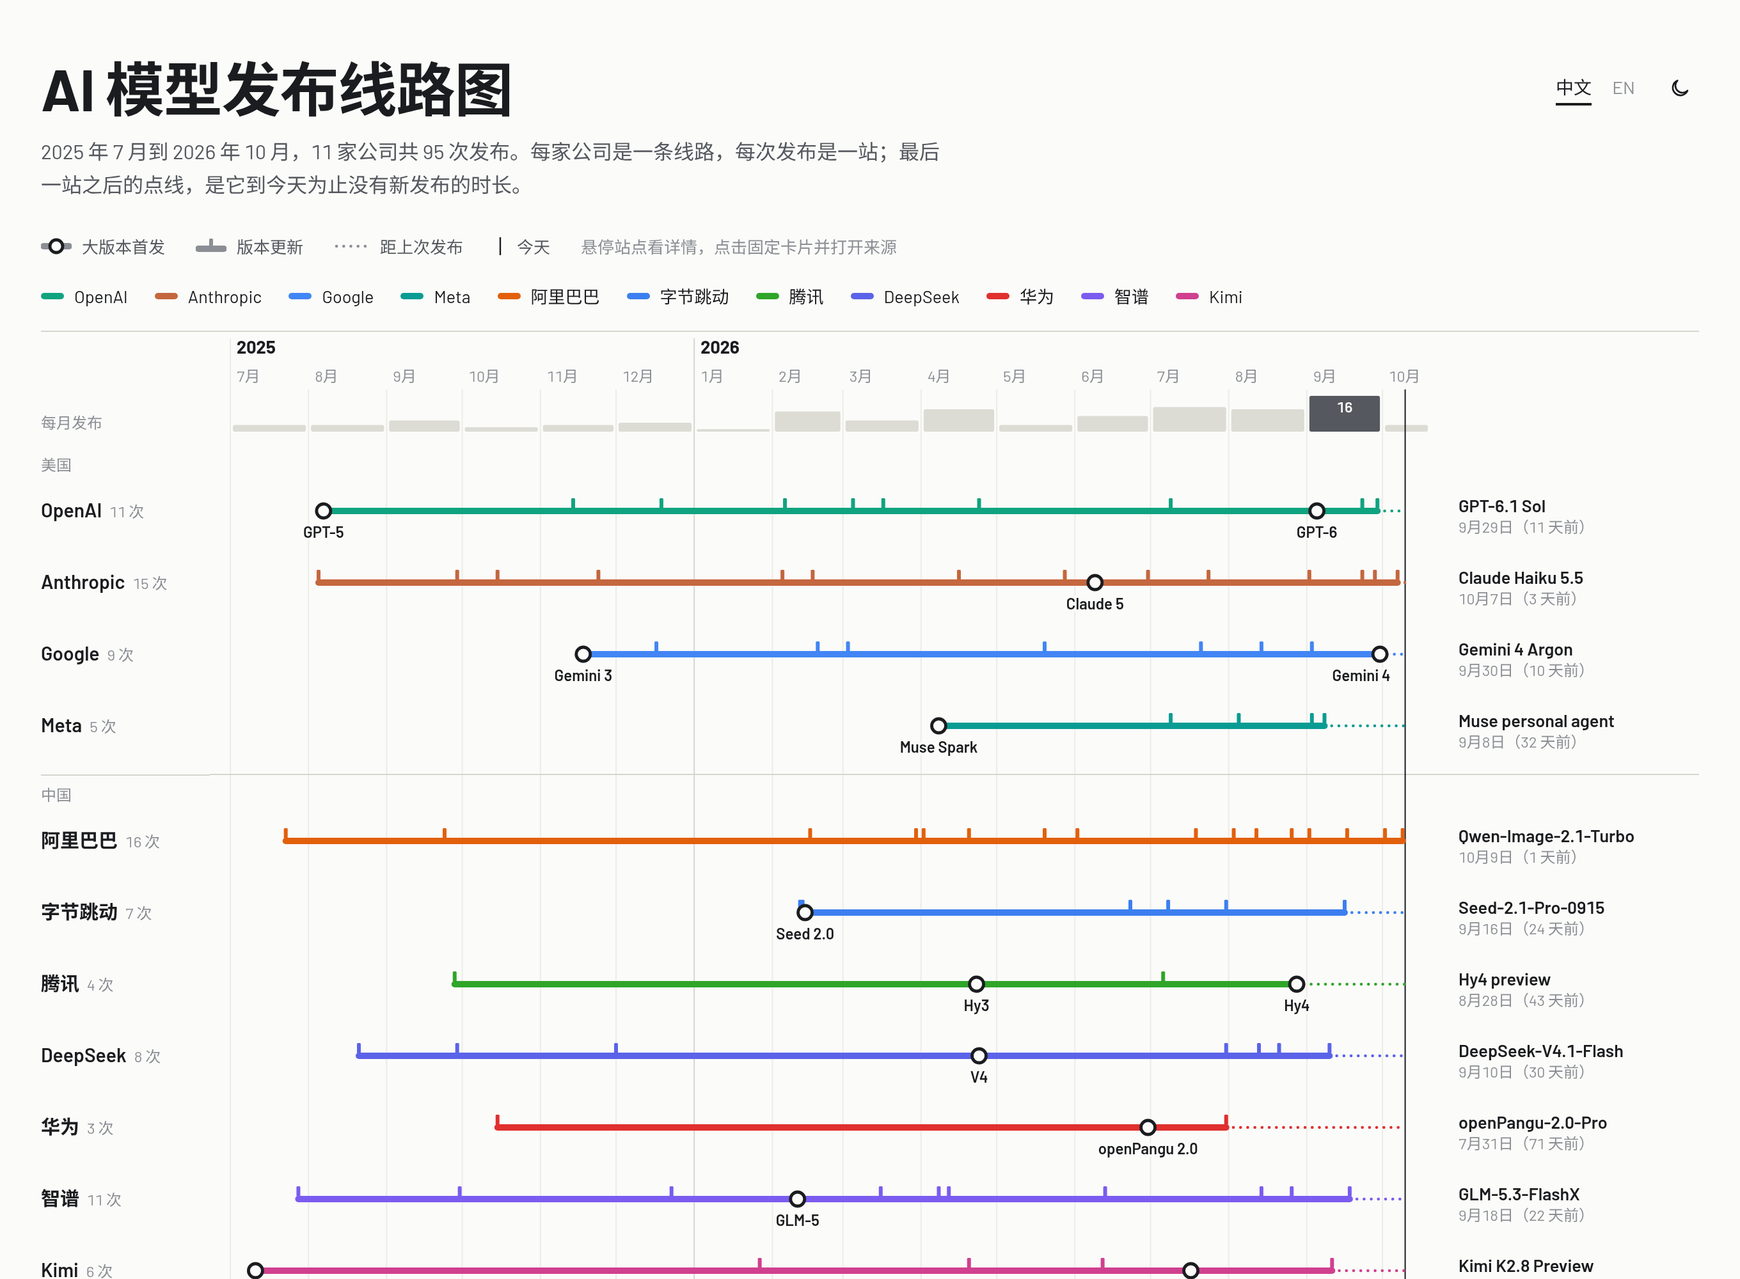
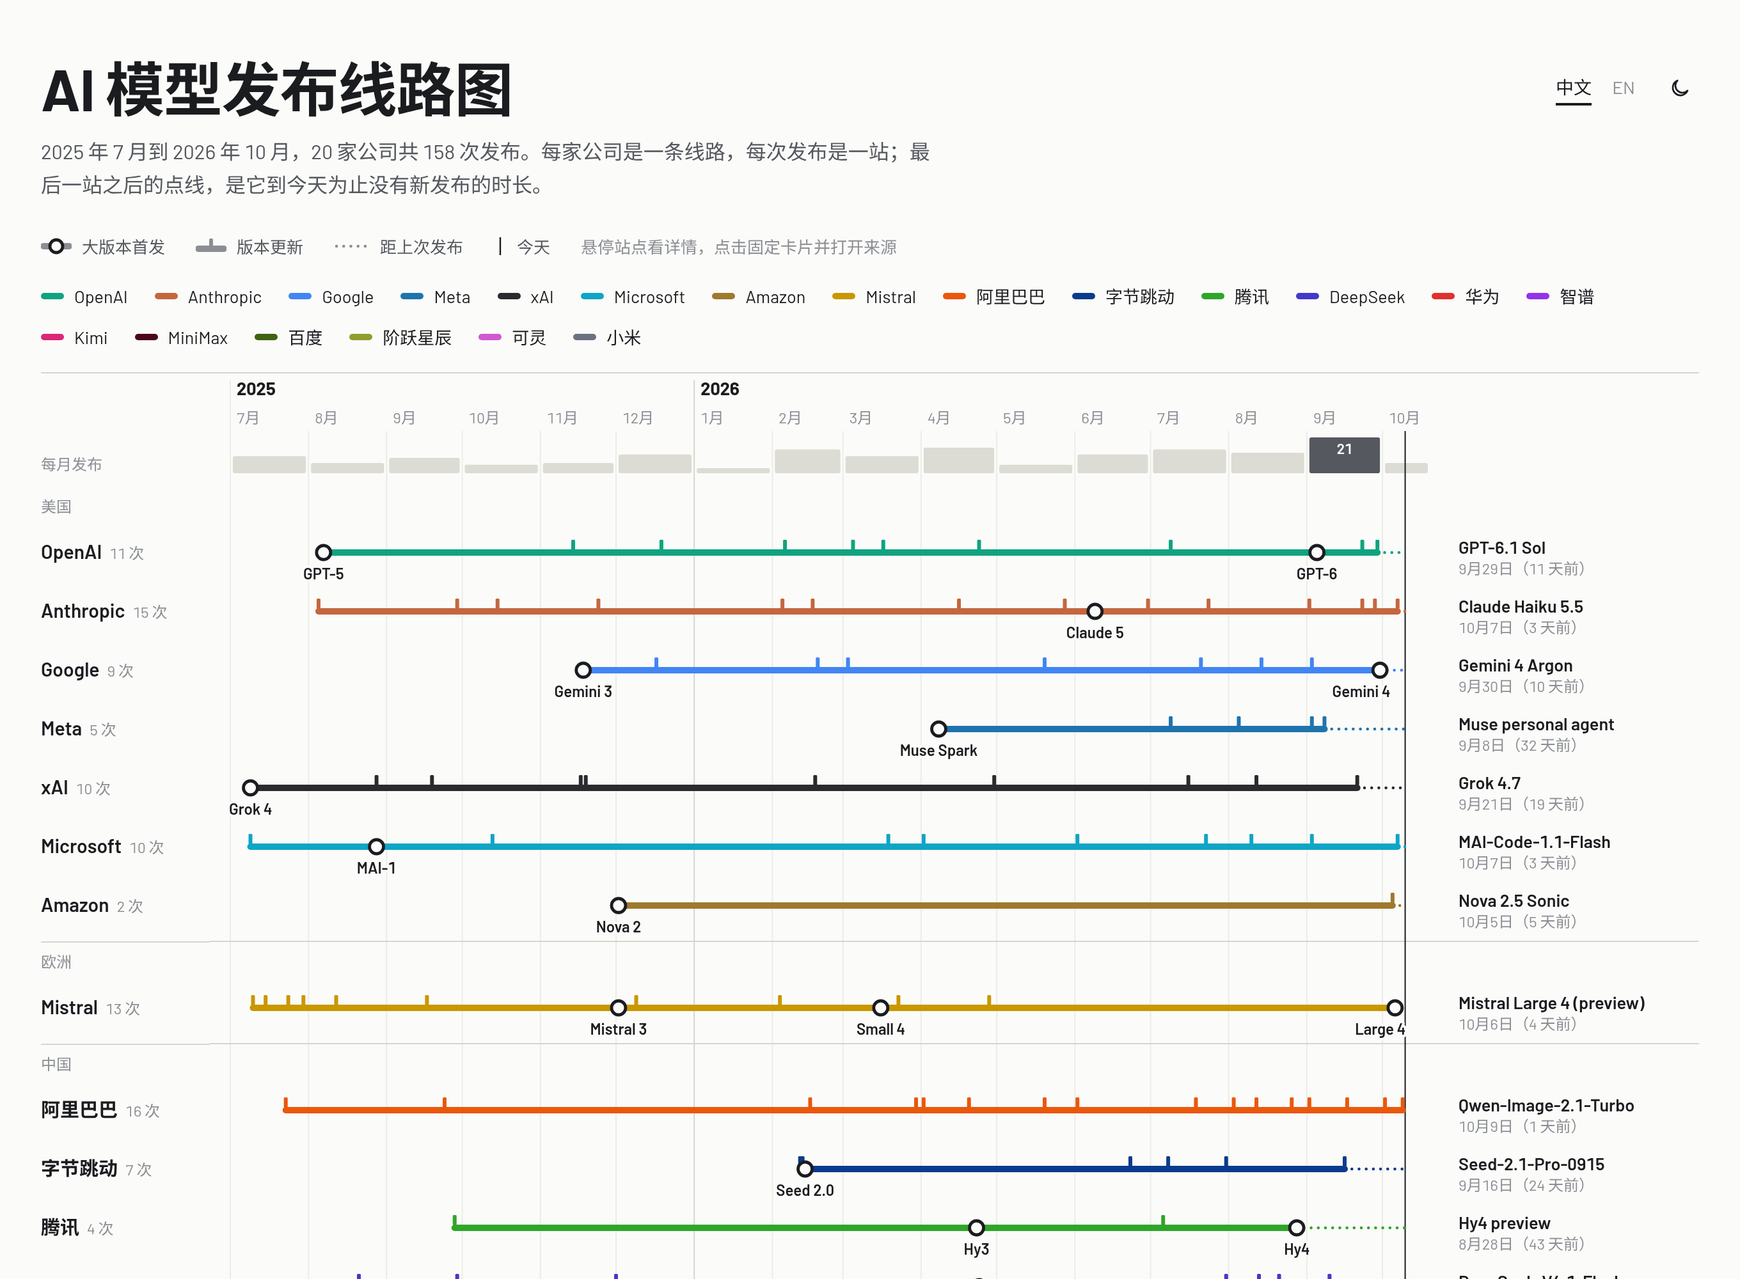
Add 9 companies (20 lines), distinct palette, stacked latest-stop list on phones

diff --git a/index.html b/index.html
@@ -111,6 +111,7 @@ svg text{font-family:inherit}
 #tip .s{font-size:12px;color:var(--mut);margin-top:2px}
 #tip a{color:var(--ink2);text-underline-offset:2px}
 #tip .tag{display:inline-block;margin-left:6px;padding:0 5px;border:1px solid var(--rule2);border-radius:3px;font-size:11px;line-height:16px;color:var(--ink2)}
+#latest h3{font-size:14px;margin:20px 0 6px;color:var(--ink2);font-weight:600}#latest .lr{display:grid;grid-template-columns:14px 78px 1fr;column-gap:8px;align-items:baseline;padding:6px 0;border-bottom:1px solid var(--rule);font-size:13px}#latest .lr i{width:12px;height:5px;border-radius:3px;align-self:center}#latest .lm{font-weight:600}#latest .ls{grid-column:3;color:var(--mut);font-size:12px}
 details{margin-top:26px;font-size:14px}
 summary{cursor:pointer;color:var(--ink2)}
 table{border-collapse:collapse;margin-top:12px;font-size:13px;width:100%;max-width:760px}
@@ -134,6 +135,7 @@ footer a{color:var(--ink2)}
 <div class="key" id="key"></div>
 <div class="filters" id="filters"></div>
 <div class="map"><div class="labels" id="labels"></div><div class="scroll" id="scroll"></div></div>
+<div id="latest"></div>
 <details><summary id="tblsum"></summary><div id="tbl"></div></details>
 <footer id="foot"></footer>
 </div>
@@ -236,31 +238,97 @@ const DATA=[
 {company:"Kimi",model:"Kimi K2.7 Code",date:"2026-06-12",source:MT},
 {company:"Kimi",model:"Kimi K3",date:"2026-07-17",source:MT},
 {company:"Kimi",model:"Kimi K2.8 Preview",date:"2026-09-11",source:MT},
+{company:"xAI",model:"Grok 4 / Grok 4 Heavy",date:"2025-07-09",source:"https://x.ai/news/grok-4"},
+{company:"xAI",model:"Grok Code Fast 1",date:"2025-08-28",source:"https://x.ai/news/grok-code-fast-1"},
+{company:"xAI",model:"Grok 4 Fast",date:"2025-09-19",source:"https://x.ai/news/grok-4-fast"},
+{company:"xAI",model:"Grok 4.1",date:"2025-11-17",source:"https://x.ai/news/grok-4-1"},
+{company:"xAI",model:"Grok 4.1 Fast",date:"2025-11-19",source:"https://x.ai/news/grok-4-1-fast"},
+{company:"xAI",model:"Grok 4.2",date:"2026-02-18",source:MT},
+{company:"xAI",model:"Grok 4.3",date:"2026-04-30",source:MT},
+{company:"xAI",model:"Grok 4.5",date:"2026-07-16",source:"https://x.ai/news/grok-4-5"},
+{company:"xAI",model:"Grok 4.6",date:"2026-08-12",source:"https://x.ai/news/grok-4-6"},
+{company:"xAI",model:"Grok 4.7",date:"2026-09-21",source:"https://x.ai/news/grok-4-7"},
+{company:"Microsoft",model:"Phi-4-mini-flash-reasoning",date:"2025-07-09",source:"https://azure.microsoft.com/en-us/blog/reasoning-reimagined-introducing-phi-4-mini-flash-reasoning/"},
+{company:"Microsoft",model:"MAI-1-preview / MAI-Voice-1",date:"2025-08-28",source:"https://microsoft.ai/news/two-new-in-house-models/"},
+{company:"Microsoft",model:"MAI-Image-1",date:"2025-10-13",source:"https://microsoft.ai/story/introducing-mai-image-1-debuting-in-the-top-10-on-lmarena/"},
+{company:"Microsoft",model:"MAI-Image-2",date:"2026-03-19",source:"https://microsoft.ai/story/introducing-mai-image-2/"},
+{company:"Microsoft",model:"MAI-Transcribe-1",date:"2026-04-02",source:"https://microsoft.ai/news/today-were-announcing-3-new-world-class-mai-models-available-in-foundry/"},
+{company:"Microsoft",model:"MAI-Thinking-1 / MAI-Image-2.5 / MAI-Voice-2 / MAI-Code-1-Flash",date:"2026-06-02",source:"https://microsoft.ai/news/building-a-hillclimbing-machine-launching-seven-new-mai-models/"},
+{company:"Microsoft",model:"MAI-Image-2.5-Pro / MAI-Voice-2-Flash",date:"2026-07-23",source:"https://microsoft.ai/news/introducing-mai-image-2-5-pro-and-mai-voice-2-flash/"},
+{company:"Microsoft",model:"MAI-Image-2.6",date:"2026-08-10",source:"https://microsoft.ai/news/mai-image-2-6-launches-at-no-2-on-arena-ahead-of-google-meta-and-xai/"},
+{company:"Microsoft",model:"MAI-Transcribe-2",date:"2026-09-03",source:"https://microsoft.ai/news/mai-transcribe-2-is-the-fastest-most-accurate-and-cheapest-speech-recognition-model-in-the-world/"},
+{company:"Microsoft",model:"MAI-Code-1.1-Flash",date:"2026-10-07",source:"https://microsoft.ai/news/mai-code-1-1-flash-br-better-faster-at-a-quarter-of-the-cost/"},
+{company:"Amazon",model:"Nova 2 Lite / Pro / Omni / Sonic",date:"2025-12-02",source:"https://www.aboutamazon.com/news/aws/aws-agentic-ai-amazon-bedrock-nova-models"},
+{company:"Amazon",model:"Nova 2.5 Sonic",date:"2026-10-05",source:"https://aws.amazon.com/about-aws/whats-new/2026/10/amazon-nova-2.5-sonic/"},
+{company:"Mistral",model:"Devstral Medium / Small 1.1",date:"2025-07-10",source:"https://docs.mistral.ai/resources/changelogs"},
+{company:"Mistral",model:"Voxtral",date:"2025-07-15",source:"https://docs.mistral.ai/resources/changelogs"},
+{company:"Mistral",model:"Magistral 1.1",date:"2025-07-24",source:"https://docs.mistral.ai/resources/changelogs"},
+{company:"Mistral",model:"Codestral 2508",date:"2025-07-30",source:"https://docs.mistral.ai/resources/changelogs"},
+{company:"Mistral",model:"Mistral Medium 3.1",date:"2025-08-12",source:"https://docs.mistral.ai/resources/changelogs"},
+{company:"Mistral",model:"Magistral 1.2",date:"2025-09-17",source:"https://docs.mistral.ai/resources/changelogs"},
+{company:"Mistral",model:"Mistral Large 3 / Ministral 3",date:"2025-12-02",source:"https://mistral.ai/news/mistral-3/"},
+{company:"Mistral",model:"Devstral 2",date:"2025-12-09",source:"https://docs.mistral.ai/resources/changelogs"},
+{company:"Mistral",model:"Voxtral Mini Transcribe 2",date:"2026-02-04",source:"https://docs.mistral.ai/resources/changelogs"},
+{company:"Mistral",model:"Mistral Small 4",date:"2026-03-16",source:"https://mistral.ai/news/mistral-small-4/"},
+{company:"Mistral",model:"Voxtral TTS",date:"2026-03-23",source:"https://docs.mistral.ai/resources/changelogs"},
+{company:"Mistral",model:"Mistral Medium 3.5",date:"2026-04-28",source:"https://docs.mistral.ai/resources/changelogs"},
+{company:"Mistral",model:"Mistral Large 4 (preview)",date:"2026-10-06",source:"https://mistral.ai/news/mistral-large-4/"},
+{company:"MiniMax",model:"MiniMax-M2",date:"2025-10-27",source:"https://www.minimax.io/news/minimax-m2"},
+{company:"MiniMax",model:"MiniMax-Hailuo-2.3",date:"2025-10-28",source:"https://www.minimax.io/news/minimax-hailuo-23"},
+{company:"MiniMax",model:"MiniMax-M2.1",date:"2025-12-23",source:"https://www.minimax.io/news/minimax-m21"},
+{company:"MiniMax",model:"MiniMax-M2.5",date:"2026-02-12",source:"https://www.minimax.io/news/minimax-m25"},
+{company:"MiniMax",model:"MiniMax-M2.7",date:"2026-03-18",source:"https://platform.minimaxi.com/docs/release-notes/models"},
+{company:"MiniMax",model:"MiniMax-M3",date:"2026-06-01",source:"https://www.minimax.io/blog/minimax-m3"},
+{company:"MiniMax",model:"MiniMax H3",date:"2026-07-31",source:"https://www.minimax.io/blog/minimax-h3"},
+{company:"百度",model:"文心 X1.1",date:"2025-09-09",source:"https://home.baidu.com/home/index/news_detail/id/18038"},
+{company:"百度",model:"文心 5.0 Preview",date:"2025-11-13",source:"https://www.cnr.cn/bj/sijh/20251113/t20251113_527429007.shtml"},
+{company:"百度",model:"文心 5.0",date:"2026-01-22",source:"https://home.baidu.com/home/index/news_detail/id/18049"},
+{company:"百度",model:"文心 5.1",date:"2026-05-09",source:"https://ernie.baidu.com/blog/zh/posts/ernie-5.1-0508-release/"},
+{company:"阶跃星辰",model:"Step 3",date:"2025-07-25",source:"https://www.jiemian.com/article/13088863.html"},
+{company:"阶跃星辰",model:"Step-Audio-R1.1",date:"2026-01-15",source:"https://www.stepfun.com/news"},
+{company:"阶跃星辰",model:"Step 3.5 Flash",date:"2026-02-02",source:"https://www.stepfun.com/news/step-3-5-flash-launch"},
+{company:"阶跃星辰",model:"Step Image Edit 2",date:"2026-04-29",source:"https://www.stepfun.com/news"},
+{company:"阶跃星辰",model:"Step 3.7 Flash",date:"2026-05-29",source:"https://news.qq.com/rain/a/20260529A067QJ00"},
+{company:"阶跃星辰",model:"StepAudio 3",date:"2026-09-15",source:"https://www.stepfun.com/news"},
+{company:"阶跃星辰",model:"Step 5 Preview",date:"2026-09-20",source:"https://www.stepfun.com/news/step-5-preview"},
+{company:"可灵",model:"Kling 2.5 Turbo",date:"2025-09-23",source:"https://ir.kuaishou.com/zh-hans/news-releases/news-release-details/kelingai-25-turboshipinmoxingshangxian"},
+{company:"可灵",model:"Kling O1",date:"2025-12-01",source:"https://ir.kuaishou.com/zh-hans/news-releases/news-release-details/quanqiushougedayitongduomotaishipinmoxingkelingo1fabu"},
+{company:"可灵",model:"Kling 2.6",date:"2025-12-03",source:"https://ir.kuaishou.com/zh-hans/news-releases/news-release-details/keling26moxingtuichuyinhuatongchunengli"},
+{company:"可灵",model:"Kling 3.0 / 3.0 Omni",date:"2026-02-05",source:"https://ir.kuaishou.com/zh-hans/news-releases/news-release-details/keling30xiliemoxingquanmianshangxian"},
+{company:"可灵",model:"Kling 3.0 Turbo",date:"2026-06-17",source:"https://kling.ai/release-note/release-notes/Kling_3_Turbo"},
+{company:"小米",model:"MiMo-V2-Flash",date:"2025-12-16",source:"https://mimo.mi.com/docs/zh-CN/updates/model"},
+{company:"小米",model:"MiMo-V2-Pro / V2-Omni / V2-TTS",date:"2026-03-18",source:"https://mimo.mi.com/docs/zh-CN/news/previous-news/v2-pro-release"},
+{company:"小米",model:"MiMo-V2.5 / V2.5-Pro",date:"2026-04-23",source:"https://mimo.mi.com/docs/zh-CN/updates/model"},
+{company:"小米",model:"MiMo-V2.5-ASR",date:"2026-06-02",source:"https://mimo.mi.com/docs/zh-CN/updates/model"},
+{company:"小米",model:"MiMo-V2.6-Pro / V2.6-Flash",date:"2026-09-22",source:"https://mimo.mi.com/docs/zh-CN/news/latest/v2-6"},
 ];
 // 每条线路的颜色：[浅色, 深色, 分组]。颜色跟着公司走，筛选时不重排。
-const LINES={"OpenAI":["#10a37f","#129673","us"],"Anthropic":["#c4673f","#c46b4b","us"],"Google":["#4285f4","#4f87ee","us"],"Meta":["#0a9c93","#0ea294","us"],
-"阿里巴巴":["#e2600c","#d66c22","cn"],"字节跳动":["#3c7ff0","#4f80ec","cn"],"腾讯":["#2fa52a","#3a9f33","cn"],"DeepSeek":["#5b63e8","#6a6fe6","cn"],"华为":["#e0302f","#e04541","cn"],"智谱":["#7b5cf0","#8467ea","cn"],"Kimi":["#d0408f","#cd4f95","cn"]};
+const LINES={"OpenAI":["#10a37f","#129673","us"],"Anthropic":["#c4673f","#c46b4b","us"],"Google":["#4285f4","#4f87ee","us"],"Meta":["#1f74ad","#4a9bd1","us"],
+"xAI":["#2a2b2f","#d9d9d4","us"],"Microsoft":["#0ea5c6","#22c3e0","us"],"Amazon":["#9e792e","#c29a4a","us"],
+"Mistral":["#c99700","#e8c02a","eu"],
+"阿里巴巴":["#ea580c","#f97316","cn"],"字节跳动":["#0b3b8c","#bfdbfe","cn"],"腾讯":["#2fa52a","#45b83d","cn"],"DeepSeek":["#4338ca","#a5b4fc","cn"],"华为":["#e0302f","#ef4b4a","cn"],"智谱":["#9333ea","#d8b4fe","cn"],"Kimi":["#db2777","#f05aa0","cn"],
+"MiniMax":["#4c0519","#fda4af","cn"],"百度":["#3f6212","#d9f99d","cn"],"阶跃星辰":["#8f9e2e","#b5c447","cn"],"可灵":["#cf59cf","#e58ae5","cn"],"小米":["#6b7280","#9ca3af","cn"]};
 const ORDER=Object.keys(LINES);
 // 大版本首发：画成换乘站并直接标注。规则是"该系列新整数版本号的第一次发布"，按需增删。
-const MAJOR={"GPT-5":"GPT-5","GPT-6 Astra":"GPT-6","Claude Mythos 5 / Fable 5":"Claude 5","Gemini 3.0 Pro":"Gemini 3","Gemini 4 Argon":"Gemini 4","Muse Spark":"Muse Spark","Seed 2.0":"Seed 2.0","Hy3 preview":"Hy3","Hy4 preview":"Hy4","DeepSeek-V4 Pro / Flash Preview":"V4","openPangu-2.0-Flash":"openPangu 2.0","GLM-5":"GLM-5","Kimi K2":"K2","Kimi K3":"K3"};
-const OFFICIAL=["openai.com","anthropic.com","blog.google","about.fb.com","ai.meta.com","qwenlm.github.io","help.aliyun.com","seed.bytedance.com","tencent.com","deepseek.com","hiascend.com","huawei.com","moonshotai.github.io","kimi.com"];
-const NAMES={zh:{},en:{"阿里巴巴":"Alibaba","字节跳动":"ByteDance","腾讯":"Tencent","华为":"Huawei","智谱":"Zhipu AI"}};
+const MAJOR={"GPT-5":"GPT-5","GPT-6 Astra":"GPT-6","Claude Mythos 5 / Fable 5":"Claude 5","Gemini 3.0 Pro":"Gemini 3","Gemini 4 Argon":"Gemini 4","Muse Spark":"Muse Spark","Seed 2.0":"Seed 2.0","Hy3 preview":"Hy3","Hy4 preview":"Hy4","DeepSeek-V4 Pro / Flash Preview":"V4","openPangu-2.0-Flash":"openPangu 2.0","GLM-5":"GLM-5","Kimi K2":"K2","Kimi K3":"K3","Grok 4 / Grok 4 Heavy":"Grok 4","MAI-1-preview / MAI-Voice-1":"MAI-1","Nova 2 Lite / Pro / Omni / Sonic":"Nova 2","Mistral Large 3 / Ministral 3":"Mistral 3","Mistral Small 4":"Small 4","Mistral Large 4 (preview)":"Large 4","MiniMax-M2":"M2","MiniMax-M3":"M3","文心 5.0 Preview":"文心 5","Step 3":"Step 3","Step 5 Preview":"Step 5","Kling 3.0 / 3.0 Omni":"Kling 3","MiMo-V2-Flash":"MiMo-V2"};
+const OFFICIAL=["x.ai","microsoft.ai","azure.microsoft.com","aboutamazon.com","aws.amazon.com","mistral.ai","docs.mistral.ai","minimax.io","platform.minimaxi.com","home.baidu.com","ernie.baidu.com","stepfun.com","ir.kuaishou.com","kling.ai","mimo.mi.com","openai.com","anthropic.com","blog.google","about.fb.com","ai.meta.com","qwenlm.github.io","help.aliyun.com","seed.bytedance.com","tencent.com","deepseek.com","hiascend.com","huawei.com","moonshotai.github.io","kimi.com"];
+const NAMES={zh:{},en:{"百度":"Baidu","阶跃星辰":"StepFun","可灵":"Kling","小米":"Xiaomi","阿里巴巴":"Alibaba","字节跳动":"ByteDance","腾讯":"Tencent","华为":"Huawei","智谱":"Zhipu AI"}};
 const EN_M=["Jan","Feb","Mar","Apr","May","Jun","Jul","Aug","Sep","Oct","Nov","Dec"];
 const I18N={
 zh:{title:"AI 模型发布线路图",
  lede:(n,c)=>`2025 年 7 月到 2026 年 10 月，${c} 家公司共 ${n} 次发布。每家公司是一条线路，每次发布是一站；最后一站之后的点线，是它到今天为止没有新发布的时长。`,
  major:"大版本首发",minor:"版本更新",multi:"同日多款",gap:"距上次发布",today:"今天",hint:"悬停站点看详情，点击固定卡片并打开来源",
- groups:{us:"美国",cn:"中国"},monthly:"每月发布",mon:m=>`${m}月`,d:(m,d)=>`${m}月${d}日`,full:(y,m,d)=>`${y}年${m}月${d}日`,
+ latestH:"各公司最新一站",groups:{us:"美国",eu:"欧洲",cn:"中国"},monthly:"每月发布",mon:m=>`${m}月`,d:(m,d)=>`${m}月${d}日`,full:(y,m,d)=>`${y}年${m}月${d}日`,
  ago:n=>n<=0?"今天":`${n} 天前`,sub:(dt,ago)=>`${dt}（${ago}）`,count:n=>`${n} 次`,off:"官方",third:"第三方",
  tbl:n=>`以表格查看全部 ${n} 次发布`,cols:["日期","公司","模型","来源"],filt:"显示或隐藏线路",themeL:"切换深浅色",
- foot:'数据来源：<a href="https://modeltimeline.com/zh/" target="_blank" rel="noopener">modeltimeline.com/zh</a>、<a href="https://www.datalearner.com/whats-new" target="_blank" rel="noopener">DataLearner</a>、各公司官方公告（OpenAI、Anthropic、Google、Meta、阿里云、DeepSeek、Kimi、字节跳动 Seed、腾讯、华为等）及新闻报道。仅收录在来源中实际查到的条目，同一天发布的多个型号合并为一站。整理日期：2026-10-10。'},
+ foot:'数据来源：<a href="https://modeltimeline.com/zh/" target="_blank" rel="noopener">modeltimeline.com/zh</a>、<a href="https://www.datalearner.com/whats-new" target="_blank" rel="noopener">DataLearner</a>、各公司官方公告（OpenAI、Anthropic、Google、Meta、阿里云、DeepSeek、Kimi、字节跳动 Seed、腾讯、华为、xAI、Microsoft AI、Amazon、Mistral、MiniMax、百度、阶跃星辰、快手可灵、小米 MiMo 等）及新闻报道。仅收录在来源中实际查到的条目，同一天发布的多个型号合并为一站。整理日期：2026-10-10。'},
 en:{title:"AI Model Release Map",
  lede:(n,c)=>`${n} releases from ${c} companies, July 2025 to October 2026. Each company is a line and each release a stop; the dotted tail after the last stop is how long it has gone without a new release.`,
  major:"First of a major version",minor:"Version update",multi:"Several on one day",gap:"Since latest release",today:"Today",hint:"Hover a stop for details; click to pin the card and open sources",
- groups:{us:"United States",cn:"China"},monthly:"Per month",mon:m=>EN_M[m-1],d:(m,d)=>`${EN_M[m-1]} ${d}`,full:(y,m,d)=>`${EN_M[m-1]} ${d}, ${y}`,
+ latestH:"Latest stop by company",groups:{us:"United States",eu:"Europe",cn:"China"},monthly:"Per month",mon:m=>EN_M[m-1],d:(m,d)=>`${EN_M[m-1]} ${d}`,full:(y,m,d)=>`${EN_M[m-1]} ${d}, ${y}`,
  ago:n=>n<=0?"today":n==1?"1 day ago":`${n} days ago`,sub:(dt,ago)=>`${dt} (${ago})`,count:n=>`${n}`,off:"Official",third:"Third-party",
  tbl:n=>`View all ${n} releases as a table`,cols:["Date","Company","Model","Source"],filt:"Show or hide lines",themeL:"Toggle dark mode",
- foot:'Sources: <a href="https://modeltimeline.com/zh/" target="_blank" rel="noopener">modeltimeline.com/zh</a>, <a href="https://www.datalearner.com/whats-new" target="_blank" rel="noopener">DataLearner</a>, official announcements (OpenAI, Anthropic, Google, Meta, Alibaba Cloud, DeepSeek, Kimi, ByteDance Seed, Tencent, Huawei, etc.) and news reports. Only entries actually found in sources are included; models released on the same day are merged into one stop. Compiled: 2026-10-10.'},};
+ foot:'Sources: <a href="https://modeltimeline.com/zh/" target="_blank" rel="noopener">modeltimeline.com/zh</a>, <a href="https://www.datalearner.com/whats-new" target="_blank" rel="noopener">DataLearner</a>, official announcements (OpenAI, Anthropic, Google, Meta, Alibaba Cloud, DeepSeek, Kimi, ByteDance Seed, Tencent, Huawei, xAI, Microsoft AI, Amazon, Mistral, MiniMax, Baidu, StepFun, Kuaishou Kling, Xiaomi MiMo, etc.) and news reports. Only entries actually found in sources are included; models released on the same day are merged into one stop. Compiled: 2026-10-10.'},};
 
 const qp=new URLSearchParams(location.search);
 const store={get:k=>{try{return localStorage.getItem(k)}catch(e){return null}},set:(k,v)=>{try{localStorage.setItem(k,v)}catch(e){}}};
@@ -312,11 +380,11 @@ function render(){
 
 function draw(){
  const t=I18N[lang];
- const narrow=innerWidth<640,W=Math.max(sc.clientWidth,880),TW=narrow?138:196,X0=16,X1=W-TW-14;
+ const narrow=innerWidth<640,W=Math.max(sc.clientWidth,narrow?640:880),TW=narrow?0:196,X0=16,X1=W-TW-14;
  const last=DATA.reduce((m,d)=>d.date>m?d.date:m,"0");
  const t0=new Date(2025,6,1),t1=new Date(Math.max(TODAY,pd(last))+10*DAY);
  const x=d=>X0+(d-t0)/(t1-t0)*(X1-X0);
- const YR=17,MON=39,BAR0=50,BARH=28,ROW=56;
+ const YR=17,MON=39,BAR0=50,BARH=28,ROW=narrow?44:46;
  const svg=document.createElementNS(NS,"svg");
  const el=(tg,a,txt,p=svg)=>{const e=document.createElementNS(NS,tg);for(const k in a)e.setAttribute(k,a[k]);if(txt!=null)e.textContent=txt;p.appendChild(e);return e};
  labs.innerHTML="";
@@ -356,6 +424,7 @@ function draw(){
  el("line",{x1:TX,x2:TX,y1:MON+6,y2:H-22,stroke:"var(--ink)","stroke-width":1});
  el("text",{x:TX,y:H-8,"text-anchor":"middle","font-size":12,"font-weight":600,fill:"var(--ink)",class:"halo"},t.today);
 
+ const latest=[];
  const ring=el("circle",{r:9,fill:"none","stroke-width":2,visibility:"hidden"});
  lanes.forEach(L=>{
   const c=L.c,C=col(c),Y=L.ly;
@@ -378,9 +447,10 @@ function draw(){
   });
   // 终点站：最新一次发布
   const ln=nodes[nodes.length-1],lm=ln.arr[ln.arr.length-1],[yy,mm,dd]=ymd(ln.date);
-  const nm=el("text",{x:X1+22,y:Y+1,"font-size":narrow?12.5:13.5,"font-weight":600,fill:"var(--ink)"},lm.model);
-  el("text",{x:X1+22,y:Y+17,"font-size":narrow?11:12,fill:"var(--mut)"},t.sub(t.d(mm,dd),t.ago(Math.round((TODAY-pd(ln.date))/DAY))));
-  L.nm=nm;L.nodes=nodes;
+  const agoTxt=t.sub(t.d(mm,dd),t.ago(Math.round((TODAY-pd(ln.date))/DAY)));latest.push({c,model:lm.model,sub:agoTxt});
+  if(!narrow){const nm=el("text",{x:X1+22,y:Y+1,"font-size":narrow?12.5:13.5,"font-weight":600,fill:"var(--ink)"},lm.model);
+  el("text",{x:X1+22,y:Y+17,"font-size":12,fill:"var(--mut)"},agoTxt);L.nm=nm}
+  L.nodes=nodes;
   const hit=el("rect",{x:0,y:L.top,width:X1+8,height:ROW,fill:"transparent",style:"cursor:pointer"});
   const near=e=>{const r=svg.getBoundingClientRect(),px=e.clientX-r.left;let best=null,bd=14;nodes.forEach(n=>{const dd=Math.abs(n.X-px);if(dd<bd){bd=dd;best=n}});return best};
   const at=n=>{const r=svg.getBoundingClientRect();return[r.left+n.X,r.top+n.Y]};
@@ -389,6 +459,7 @@ function draw(){
   hit.addEventListener("click",e=>{const n=near(e);if(!n)return;e.stopPropagation();ring.setAttribute("cx",n.X);ring.setAttribute("cy",Y);ring.setAttribute("stroke",C);ring.setAttribute("visibility","visible");pinned=n;showTip(n,...at(n),true)});
  });
  svg.appendChild(ring);
+ const lt=document.getElementById("latest");lt.innerHTML=narrow?`<h3>${t.latestH}</h3>`+latest.map(r=>`<div class="lr"><i style="background:${col(r.c)}"></i><b>${cn(r.c)}</b><span class="lm">${esc(r.model)}</span><span class="ls">${r.sub}</span></div>`).join(""):"";
  sc.innerHTML="";sc.appendChild(svg);
  // 测量后处理：终点站名过长截断；标注贴边时改对齐
  lanes.forEach(L=>{
